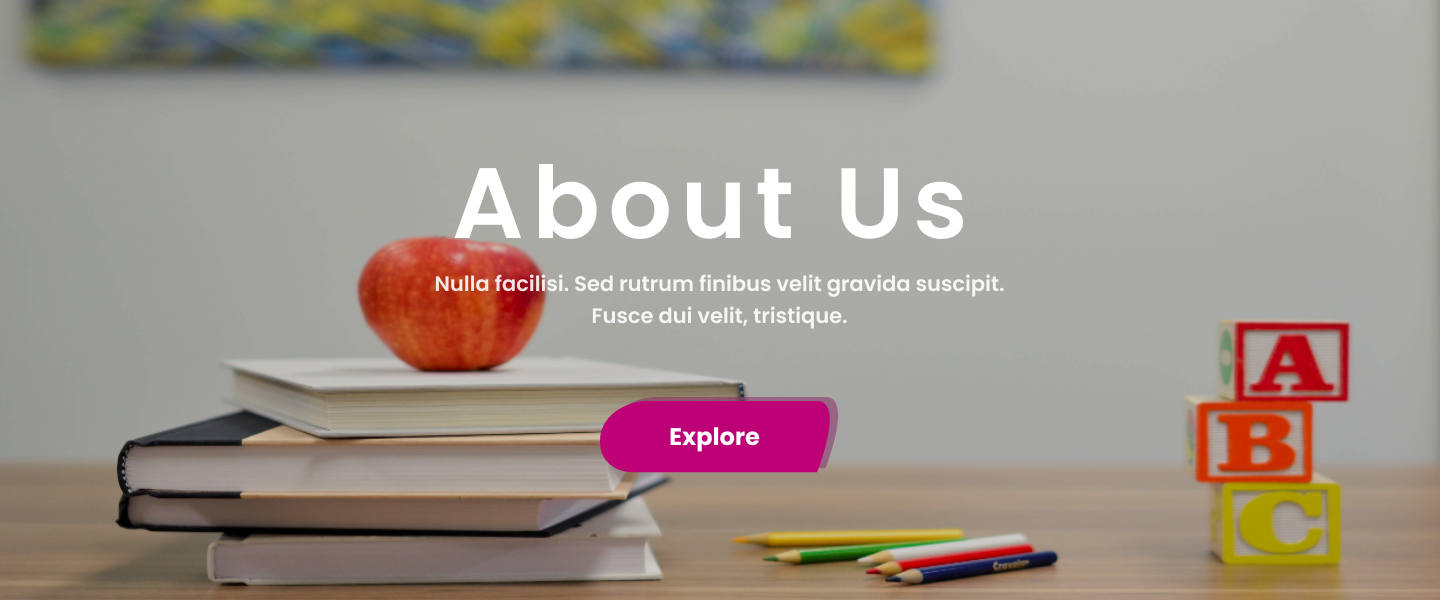
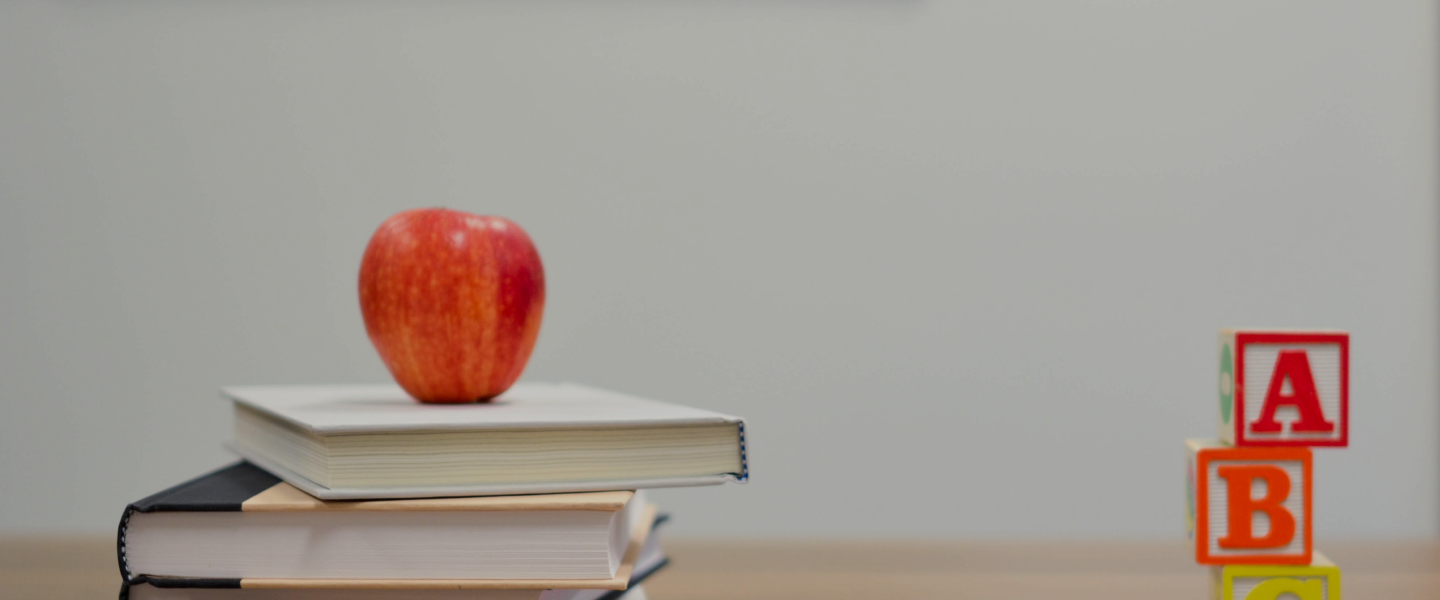
re edited the hero image

diff --git a/pages/about.js b/pages/about.js
@@ -13,7 +13,14 @@ import { StaffArr, whyUsArr } from "../components/DataArr/Data";
 const About = () => {
   return (
     <>
-      <div className={Abtstyles.hero}></div>
+      <div className={Abtstyles.hero}>
+        <p className="text-center text-white text-7xl font-bold tracking-wider">
+          About Us
+        </p>
+        <p className="text-center text-white text-2xl tracking-wide"><q>
+        An investment in knowledge pays the best interest. –  Benjamin Franklin
+          </q></p>
+      </div>
       <Container>
         <Row className="pb-10 pt-10">
           <Col>
@@ -98,13 +105,13 @@ const About = () => {
               <Row>
                 {whyUsArr.map((obj) => (
                   <Col sm={4} key={obj.id}>
-                  <div className="flex justify-center mt-4">
-                    <Image src={obj.icon} alt="congress" />
-                  </div>
-                  <div className="text-center mt-2 font-bold">
-                    <p>{obj.field}</p>
-                  </div>
-                </Col>
+                    <div className="flex justify-center mt-4">
+                      <Image src={obj.icon} alt="congress" />
+                    </div>
+                    <div className="text-center mt-2 font-bold">
+                      <p>{obj.field}</p>
+                    </div>
+                  </Col>
                 ))}
               </Row>
             </div>

diff --git a/styles/About.module.css b/styles/About.module.css
@@ -7,6 +7,9 @@
   background-size: cover;
   height: 75vh;
 }
+.hero > p:nth-child(1) {
+  padding-top: 10%;
+}
 .Aheader {
   font-family: "Poppins", sans-serif;
 }
